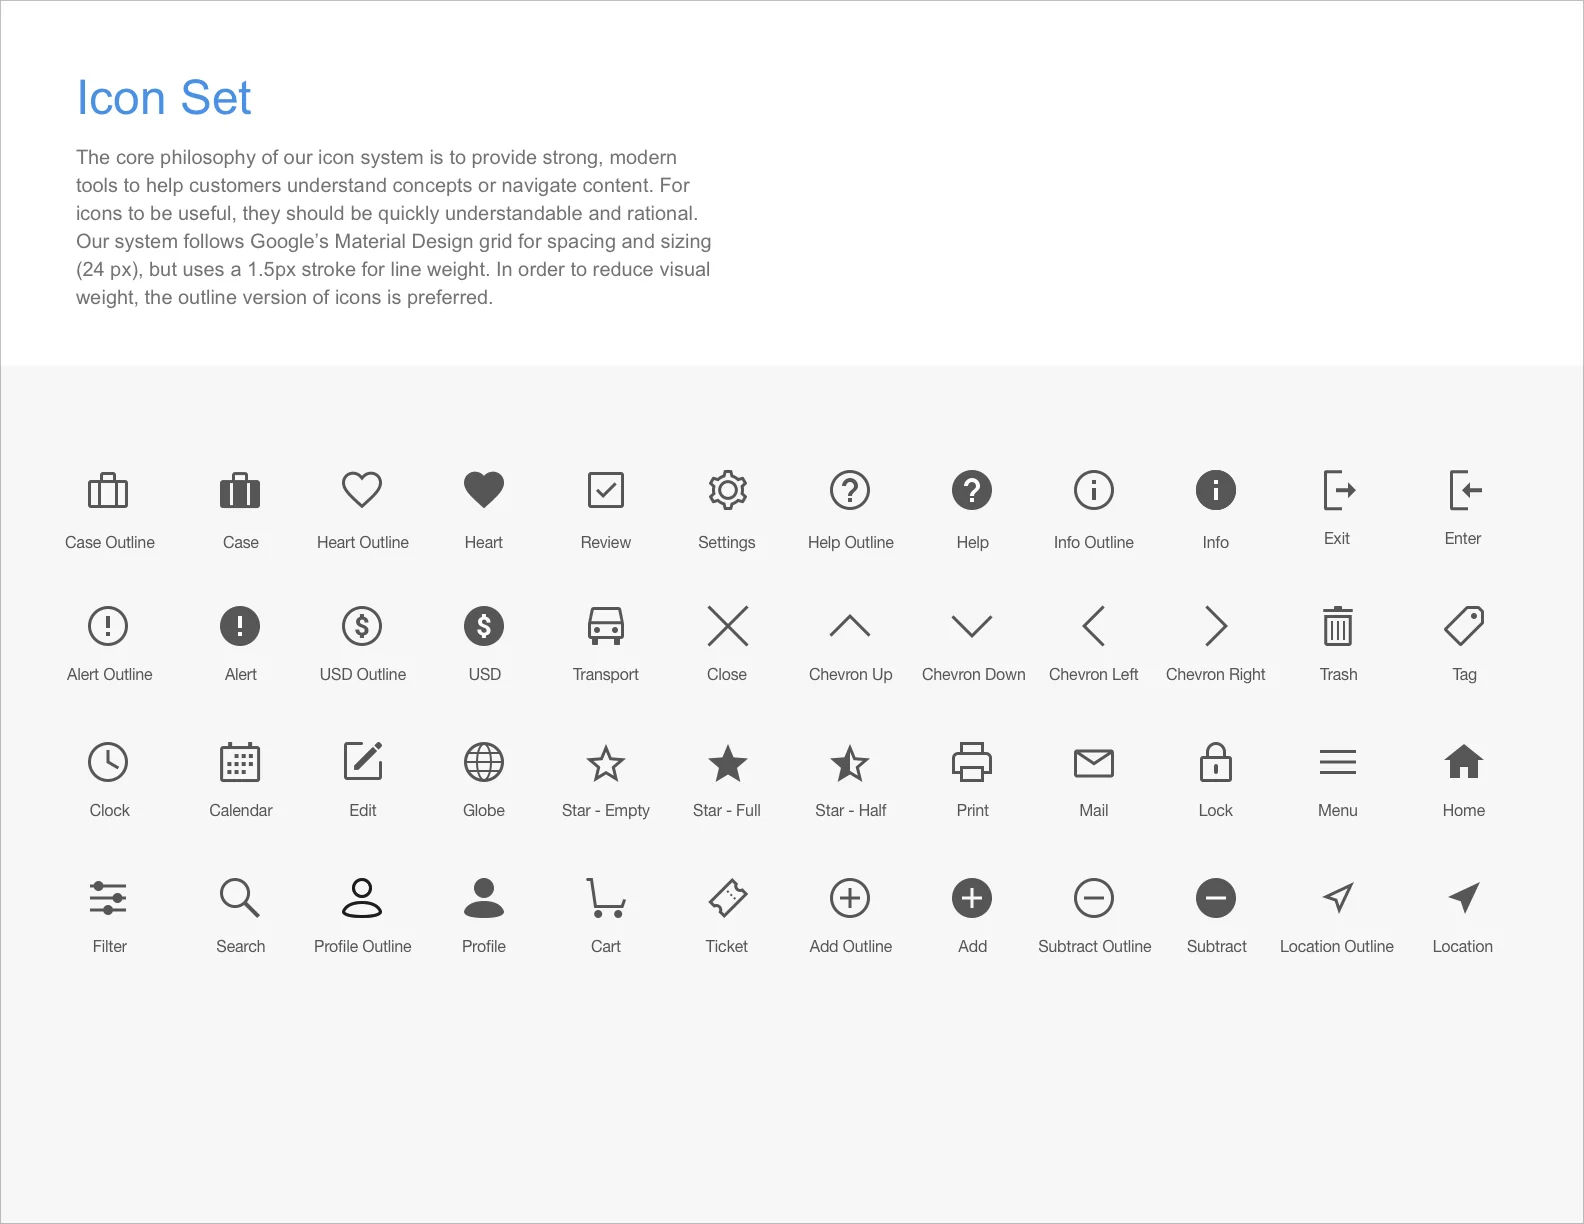
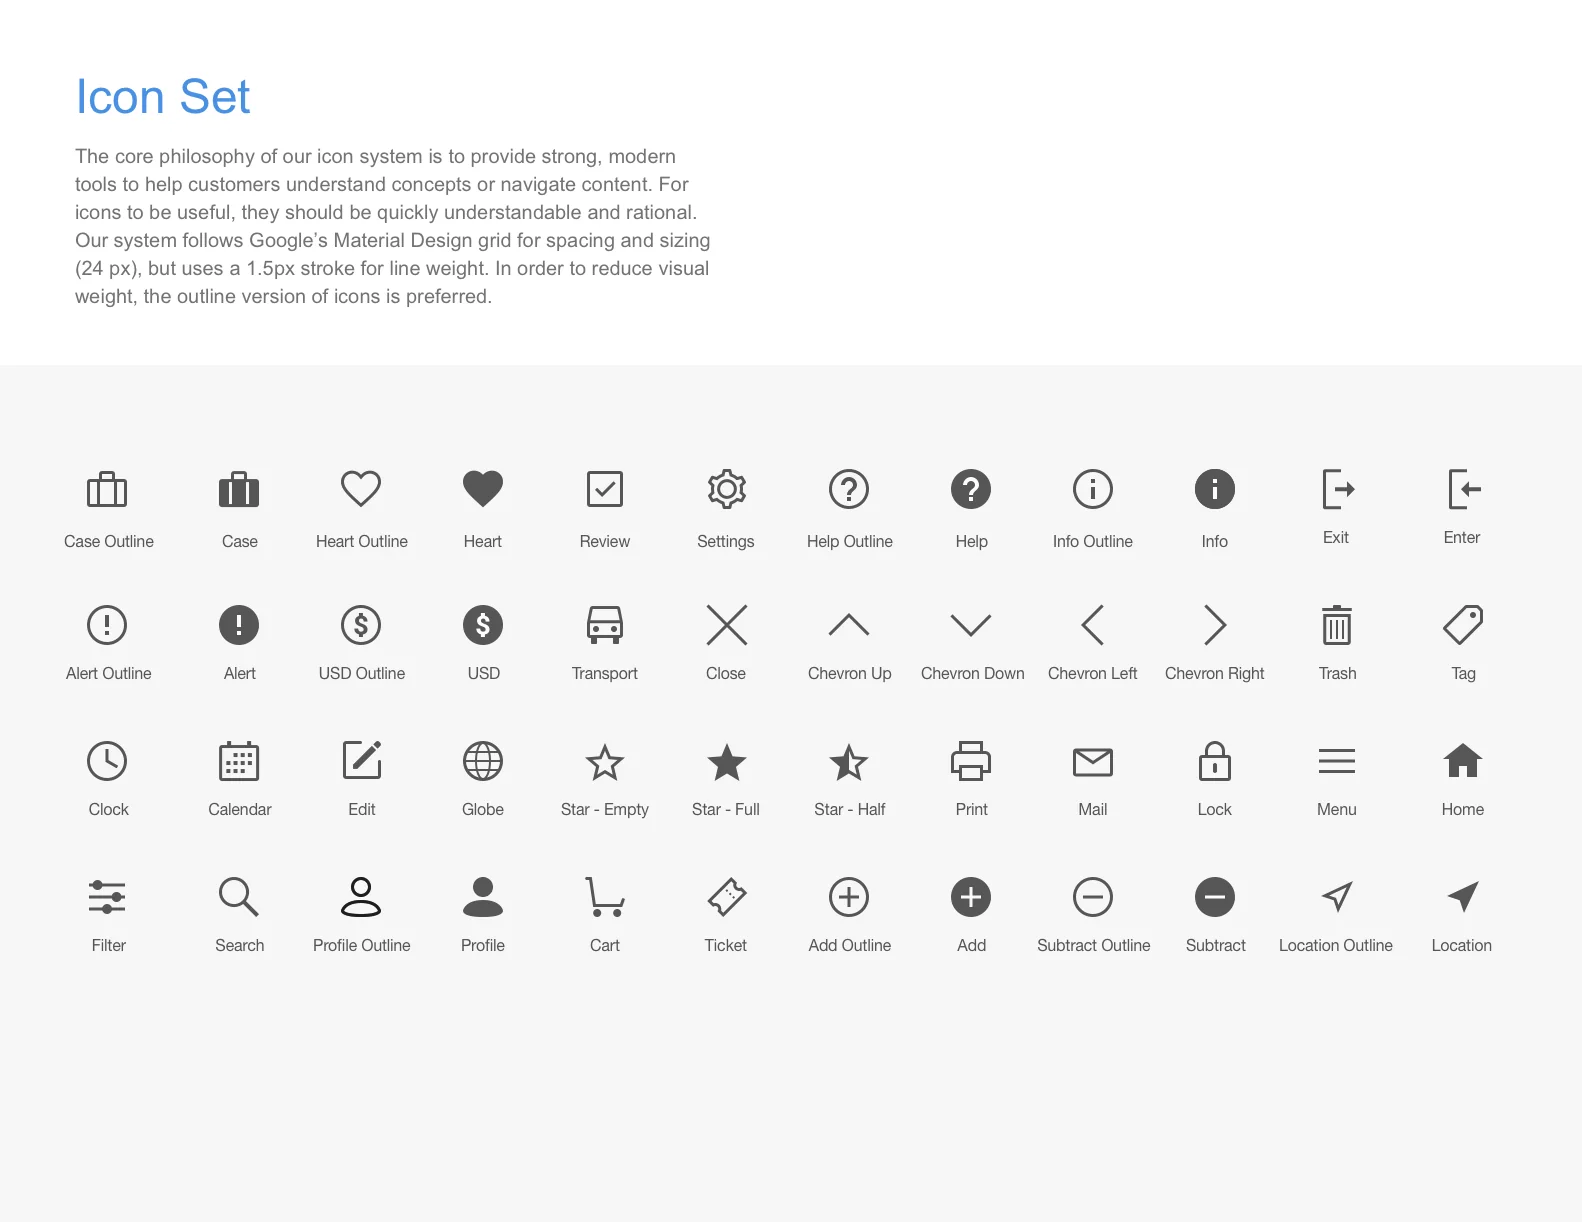
Trim the baked-in 1px border from the Viator design system boards
They already had their own border, so the new frame doubled it.

Claude-Session: https://claude.ai/code/session_01VXSKCsyRqCv6TwdNvrmcXN

diff --git a/tripadvisor.html b/tripadvisor.html
@@ -72,10 +72,10 @@
     </figure>
     <figure class="figure m-settle">
       <div class="row r2">
-        <img class="framed" src="assets/img/work/sg-grid.webp" width="1584" height="1224" alt="A shared system so five front ends could become one." loading="lazy">
-        <img class="framed" src="assets/img/work/sg-forms.webp" width="1584" height="1224" alt="A shared system so five front ends could become one." loading="lazy">
-        <img class="framed" src="assets/img/work/sg-type.webp" width="1584" height="1224" alt="A shared system so five front ends could become one." loading="lazy">
-        <img class="framed" src="assets/img/work/sg-icons.webp" width="1584" height="1224" alt="A shared system so five front ends could become one." loading="lazy">
+        <img class="framed" src="assets/img/work/sg-grid.webp" width="1582" height="1222" alt="A shared system so five front ends could become one." loading="lazy">
+        <img class="framed" src="assets/img/work/sg-forms.webp" width="1582" height="1222" alt="A shared system so five front ends could become one." loading="lazy">
+        <img class="framed" src="assets/img/work/sg-type.webp" width="1582" height="1222" alt="A shared system so five front ends could become one." loading="lazy">
+        <img class="framed" src="assets/img/work/sg-icons.webp" width="1582" height="1222" alt="A shared system so five front ends could become one." loading="lazy">
       </div>
       <figcaption>A shared system so five front ends could become one.</figcaption>
     </figure>
